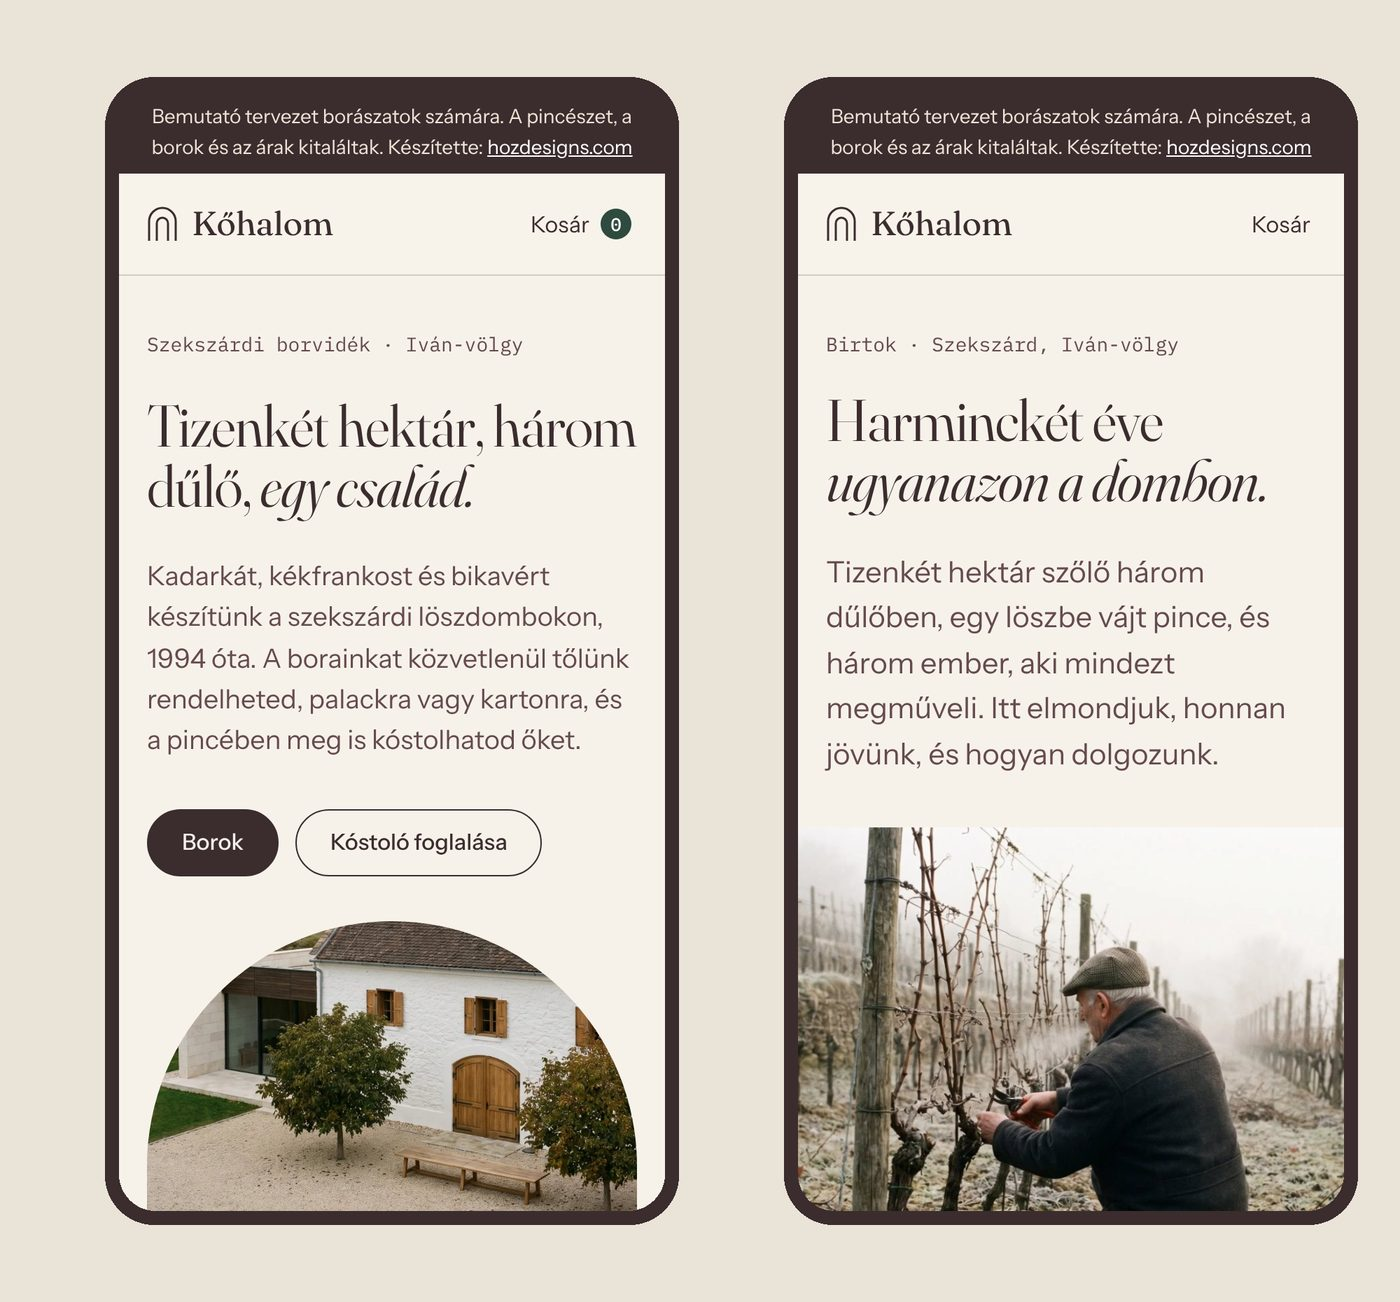
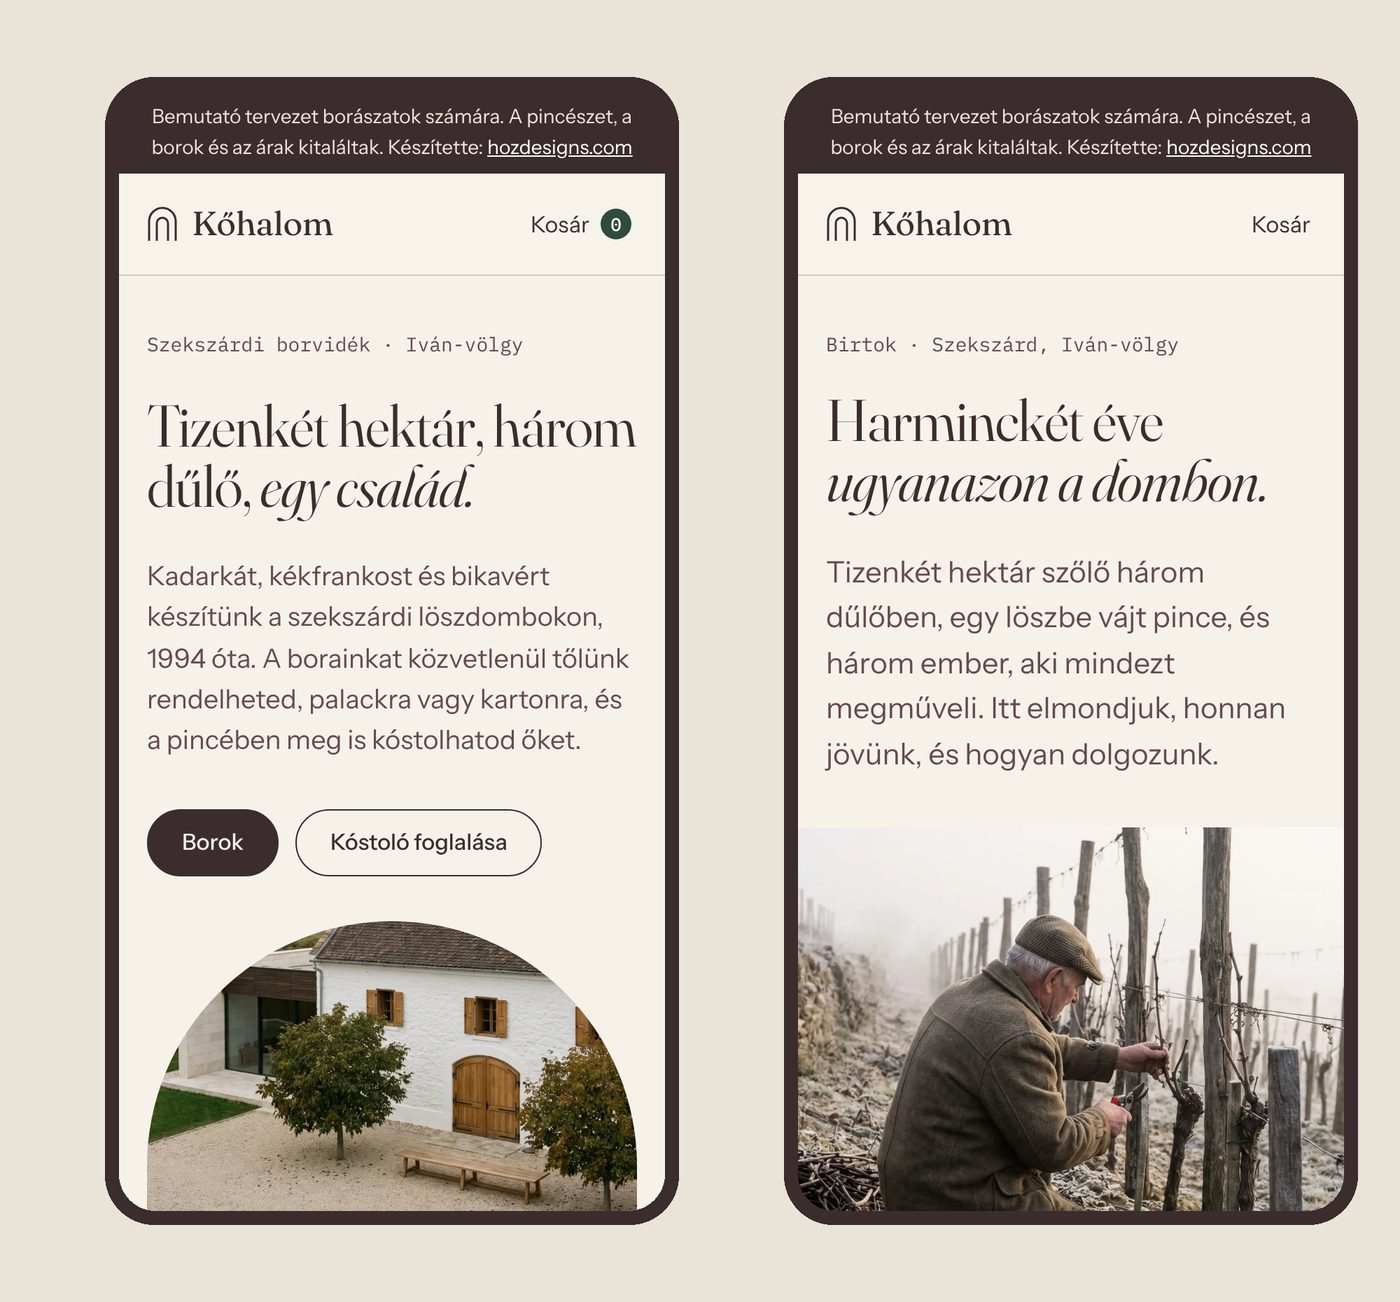
teszt-boraszat/birtok: éles metszős és löszmélyutas kép, új kép a felújított présházról, pincekép alja javítva
Claude-Session: https://claude.ai/code/session_01DyVJTCEQRRMkVdNDVDpjXA

Changed region(s): [[0.5529, 0.6144, 0.9829, 0.9524]]

diff --git a/minta/teszt-boraszat/birtok/index.html b/minta/teszt-boraszat/birtok/index.html
@@ -48,7 +48,7 @@
 </section>
 
 <figure class="band">
-  <img src="../img/metszes.jpg" width="1456" height="810" alt="Metszés a téli, deres szőlőben" fetchpriority="high">
+  <img src="../img/metszes2.jpg" width="2396" height="1331" alt="Metszés a téli, deres szőlőben" fetchpriority="high">
   <figcaption><div class="wrap">Metszés a Porkolábban, január</div></figcaption>
 </figure>
 
@@ -56,14 +56,22 @@
   <div class="wrap">
     <div class="head">
       <h2>Honnan jövünk</h2>
-      <p>Négy évszám. A többi évben is dolgoztunk, csak azokról kevesebb a mesélnivaló.</p>
+      <p>Öt évszám. A többi évben is dolgoztunk, csak azokról kevesebb a mesélnivaló.</p>
     </div>
     <div class="years">
       <article><h3>1994</h3><p><b>Két hektár kadarka.</b> Apánk, Kőhalmi István megveszi az Iván-völgy alsó teraszát, hatvanas években telepített tőkékkel. Azt mondja, a kadarkát úgysem veszi meg senki, legalább nekünk marad. Az első évben négyszáz palack készül.</p></article>
       <article><h3>2006</h3><p><b>Saját feldolgozó.</b> Addig a nagyszüleink présházában préseltünk, kézi préssel. Megépül a feldolgozó a pince fölé, és megjön az első három ászokhordó. A birtok ekkor hét hektár.</p></article>
       <article><h3>2015</h3><p><b>Hazajövünk.</b> Anna átveszi a pincét, Bence a vendégeket és a rendeléseket. Apánk azóta csak a szőlőben dolgozik, és azt mondja, ott mindig is jobban szeretett lenni.</p></article>
+      <article><h3>2019</h3><p><b>Felújítjuk a présházat.</b> A nagyszüleink présháza új tetőt és új kaput kap, a falai maradnak. Mellé épül a kóstolóterem, ahol tizenhatan férnek el egy asztalnál. Azóta nem a konyhában kóstoltatunk.</p></article>
       <article><h3>2023</h3><p><b>Új telepítés a Porkolábban.</b> A dűlő felső részére cabernet franc kerül, egy hektáron. Az első termését idén szüreteltük; ha jó lesz, 2028-ban kerül a bikavérbe.</p></article>
     </div>
+  </div>
+</section>
+
+<section style="padding-top:0">
+  <div class="wrap">
+    <img class="wide" src="../img/udvar.jpg" width="2396" height="1331" alt="A felújított présház és a kóstolóterem az udvar felől, mögötte az őszi szőlő" loading="lazy">
+    <p class="cap">A présház és a kóstolóterem az udvar felől. A kapu mögött van a lejárat a pincébe.</p>
   </div>
 </section>
 
@@ -89,7 +97,7 @@
 
 <section style="padding-top:0">
   <div class="wrap">
-    <img class="wide" src="../img/loszut.jpg" width="1456" height="810" alt="Löszmélyút a szekszárdi dombok között, a falba vágott pinceajtóval" loading="lazy">
+    <img class="wide" src="../img/loszut2.jpg" width="2396" height="1331" alt="Löszmélyút a szekszárdi dombok között, a falba vágott pinceajtóval" loading="lazy">
     <p class="cap">A löszmélyút, amelyen a szőlőbe járunk. Az ajtó mögött a szomszéd pincéje van.</p>
   </div>
 </section>
@@ -108,7 +116,7 @@
       </div>
     </div>
     <div>
-      <img class="wide" style="aspect-ratio:1/1;object-position:35% 50%" src="../img/pince.jpg" width="1456" height="810" alt="Téglaboltozatos pince ászokhordókkal, a végén a kijárat fénye" loading="lazy">
+      <img class="wide" style="aspect-ratio:1/1;object-position:35% 50%" src="../img/pince2.jpg" width="1456" height="804" alt="Téglaboltozatos pince ászokhordókkal, a végén a kijárat fénye" loading="lazy">
     </div>
   </div>
 </section>
